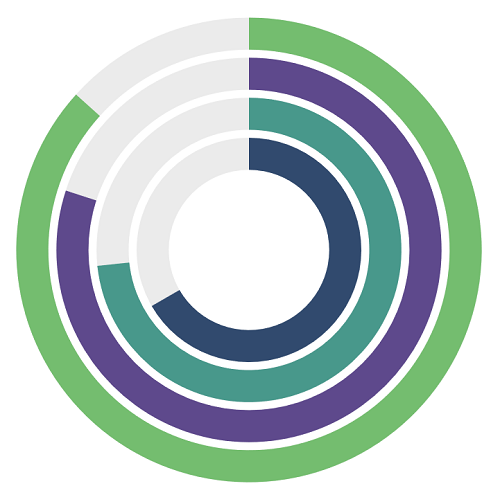
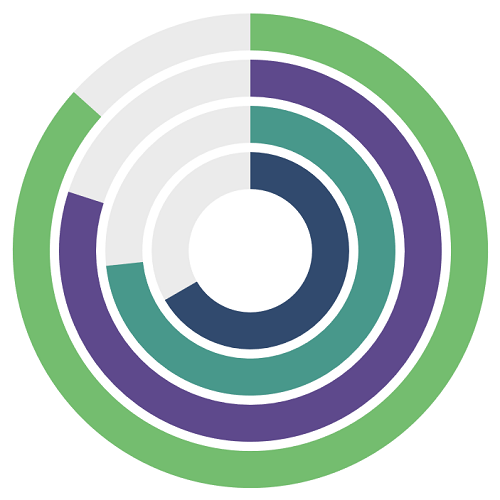
To resolved the review feed backs.

diff --git a/MAUI/Circular-Charts/RadialBarChart.md b/MAUI/Circular-Charts/RadialBarChart.md
@@ -27,7 +27,6 @@ The following properties can be used to customize the appearance of the radial b
 
  * [PaletteBrushes](https://help.syncfusion.com/cr/maui/Syncfusion.Maui.Charts.ChartSeries.html#Syncfusion_Maui_Charts_ChartSeries_PaletteBrushes) - To customize the appearance of the series.
 
-
 {% tabs %}
 
 {% highlight xaml %}
@@ -54,11 +53,11 @@ The following properties can be used to customize the appearance of the radial b
 
 {% endtabs %}
 
-![Radial bar chart type in MAUI Chart](Chart-Types_images/maui_radialbar_chart.png)
+![.NET MAUI Radial bar chart](Chart-Types_images/maui_radialbar_chart.png)
 
 ## Changing the radial bar size
 
-You can use the [Radius]() property to change the radial bar chart size. The default value of the radius is [0.8]().
+You can use the [Radius](https://help.syncfusion.com/cr/maui/Syncfusion.Maui.Charts.CircularSeries.html?tabs=tabid-5%2Ctabid-1%2Ctabid-3#Syncfusion_Maui_Charts_CircularSeries_Radius) property to change the radial bar chart size. The default value of the radius is `0.8`.
 
 {% tabs %}
 
@@ -88,7 +87,7 @@ You can use the [Radius]() property to change the radial bar chart size. The def
 
 {% endtabs %}
 
-![Radial bar chart radius size in MAUI Chart](Chart-Types_images/maui_radius.png)
+![.NET MAUI Radial bar chart radius size](Chart-Types_images/maui_radius.png)
 
 ## Changing the radial bar inner radius
 
@@ -102,7 +101,7 @@ The [InnerRadius]() property of radial bar series is used to define the inner ci
     <chart:RadialBarSeries ItemsSource="{Binding Data}" 
                         XBindingPath="Product" 
                         YBindingPath="SalesRate" 
-                        InnerRadius = "0.2"/>
+                        InnerRadius = "0.1"/>
     </chart:SfCircularChart>
 
 {% endhighlight %}
@@ -114,7 +113,7 @@ The [InnerRadius]() property of radial bar series is used to define the inner ci
         RadialBarSeries series = new RadialBarSeries();
         series.XBindingPath = "Product";
         series.YBindingPath = "SalesRate";
-        series.InnerRadius = 0.2;
+        series.InnerRadius = 0.1;
 
         chart.Series.Add(series);
 
@@ -122,7 +121,7 @@ The [InnerRadius]() property of radial bar series is used to define the inner ci
 
 {% endtabs %}
 
-![Radial bar chart inner radius customization in MAUI Chart](Chart-Types_images/maui_inner_radius.png)
+![.NET MAUI Radial bar chart inner radius customization](Chart-Types_images/maui_inner_radius.png)
 
 ## CapStyle customization
 
@@ -138,39 +137,9 @@ The following types are available for [CapStyle]() property.
 
  * [EndCurve]() - Indicates that a curve shape should appear at the end position of the segment.
 
-### BothFlat
+**BothCurve**
 
-{% tabs %}
-
-{% highlight xaml %}
-
-    <chart:SfCircularChart>
-    <chart:RadialBarSeries ItemsSource="{Binding Data}" 
-                        XBindingPath="Product" 
-                        YBindingPath="SalesRate"
-                        CapStyle = "BothFlat"/>
-    </chart:SfCircularChart>
-
-{% endhighlight %}
-
-{% highlight c# %}
-
-    SfCircularChart chart = new SfCircularChart();
-
-        RadialBarSeries series = new RadialBarSeries();
-        series.XBindingPath = "Product";
-        series.YBindingPath = "SalesRate";
-        series.CapStyle = CapStyle.BothFlat;
-
-        chart.Series.Add(series);
-
-{% endhighlight %}
-
-{% endtabs %}
-
-![Radial bar chart both flat cap style in MAUI Chart](Chart-Types_images/maui_radialbar_chart.png)
-
- ### BothCurve
+You can customize the CapStyle property of the radial bar based on its types.
 
 {% tabs %}
 
@@ -200,71 +169,7 @@ The following types are available for [CapStyle]() property.
 
 {% endtabs %}
 
-![Radial bar chart both curve cap style in MAUI Chart](Chart-Types_images/maui_bothcurve.png)
-
-### StartCurve
-
-{% tabs %}
-
-{% highlight xaml %}
-
-    <chart:SfCircularChart>
-    <chart:RadialBarSeries ItemsSource="{Binding Data}" 
-                        XBindingPath="Product" 
-                        YBindingPath="SalesRate" 
-                        CapStyle = "StartCurve"/>
-    </chart:SfCircularChart>
-
-{% endhighlight %}
-
-{% highlight c# %}
-
-    SfCircularChart chart = new SfCircularChart();
-
-        RadialBarSeries series = new RadialBarSeries();
-        series.XBindingPath = "Product";
-        series.YBindingPath = "SalesRate";
-        series.CapStyle = CapStyle.StartCurve;
-
-        chart.Series.Add(series);
-
-{% endhighlight %}
-
-{% endtabs %}
-
-![Radial bar chart start curve cap style in MAUI Chart](Chart-Types_images/maui_startcurve.png)
-
-### EndCurve
-
-{% tabs %}
-
-{% highlight xaml %}
-
-    <chart:SfCircularChart>
-    <chart:RadialBarSeries ItemsSource="{Binding Data}" 
-                        XBindingPath="Product" 
-                        YBindingPath="SalesRate" 
-                        CapStyle = "EndCurve"/>
-    </chart:SfCircularChart>
-
-{% endhighlight %}
-
-{% highlight c# %}
-
-    SfCircularChart chart = new SfCircularChart();
-
-        RadialBarSeries series = new RadialBarSeries();
-        series.XBindingPath = "Product";
-        series.YBindingPath = "SalesRate";
-        series.CapStyle = CapStyle.EndCurve;
-
-        chart.Series.Add(series);
-
-{% endhighlight %}
-
-{% endtabs %}
-
-![Radial bar chart end curve cap style in MAUI Chart](Chart-Types_images/maui_endcurve.png)
+![.NET MAUI Radial bar chart cap style customization](Chart-Types_images/maui_bothcurve.png)
 
 ## Segment spacing
 
@@ -300,51 +205,19 @@ The [GapRatio]() property of the radial bar series is used to define the spacing
 
 {% endtabs %}
 
-![Radial bar chart segment spacing in MAUI Chart](Chart-Types_images/maui_gapratio.png)
+![.NET MAUI Radial bar chart segment spacing between each segment](Chart-Types_images/maui_gapratio.png)
 
 ## Track customization
 
 You can use the following properties to customize the appearance of the circular bar track.
 
- * [TrackStroke]() - To customize the circular bar border color.
+  * [TrackStroke]() - To customize the circular bar border color.
 
   * [TrackStrokeWidth]() - To customize the border width of the circular bar.
 
   * [TrackFill]() - To customize the circular bar area which behind the radial bar segments.
 
-### TrackStrokeWidth
-
-{% tabs %}
-
-{% highlight xaml %}
-
-    <chart:SfCircularChart>
-    <chart:RadialBarSeries ItemsSource="{Binding Data}" 
-                        XBindingPath="Product" 
-                        YBindingPath="SalesRate" 
-                        TrackStrokeWidth = "1"/>
-    </chart:SfCircularChart>
-
-{% endhighlight %}
-
-{% highlight c# %}
-
-    SfCircularChart chart = new SfCircularChart();
-
-        RadialBarSeries series = new RadialBarSeries();
-        series.XBindingPath = "Product";
-        series.YBindingPath = "SalesRate";
-        series.TrackStrokeWidth = 1;
-
-        chart.Series.Add(series);
-
-{% endhighlight %}
-
-{% endtabs %}
-
-![Radial bar chart track stroke in MAUI Chart](Chart-Types_images/maui_trackstrokewidth.png)
-
-### TrackFill
+**TrackFill**
 
 {% tabs %}
 
@@ -355,7 +228,8 @@ You can use the following properties to customize the appearance of the circular
                         XBindingPath="Product" 
                         YBindingPath="SalesRate" 
                         TrackFill="#FFF7ED" 
-                        TrackStrokeWidth="1"             TrackStroke="#FED7AA"  />
+                        TrackStrokeWidth="1"
+                        TrackStroke="#FED7AA"  />
     </chart:SfCircularChart>
 
 {% endhighlight %}
@@ -377,12 +251,11 @@ You can use the following properties to customize the appearance of the circular
 
 {% endtabs %}
 
-
-![Radial bar chart track fill in MAUI Chart](Chart-Types_images/maui_trackfill.png)
+![.NET MAUI Radial bar chart track customization](Chart-Types_images/maui_trackfill.png)
 
 ## CenterView
 
-The view placed in the center of the radial bar chart is useful for sharing additional information about the radial bar chart. Any view can be added to the center of the radial bar chart using the [CenterView]() property of [RadialBarSeries](). The binding context of the [CenterView]() will be the respective radial bar series.
+ Any view can be added to the center of the radial bar chart using the [CenterView]() property of [RadialBarSeries](). The view placed in the center of the radial bar chart is useful for sharing additional information about the radial bar chart.The binding context of the [CenterView]() will be the respective radial bar series.
 
 ### CenterHoleSize
 
@@ -430,4 +303,4 @@ The [CenterHoleSize]() property of RadialBarSeries is used to get the diameter v
 
 {% endtabs %}
 
-![Radial bar chart center view in MAUI Chart](Chart-Types_images/maui_radialbarchart_centerview.png)
+![.NET MAUI Radial bar chart center view customization](Chart-Types_images/maui_radialbarchart_centerview.png)
